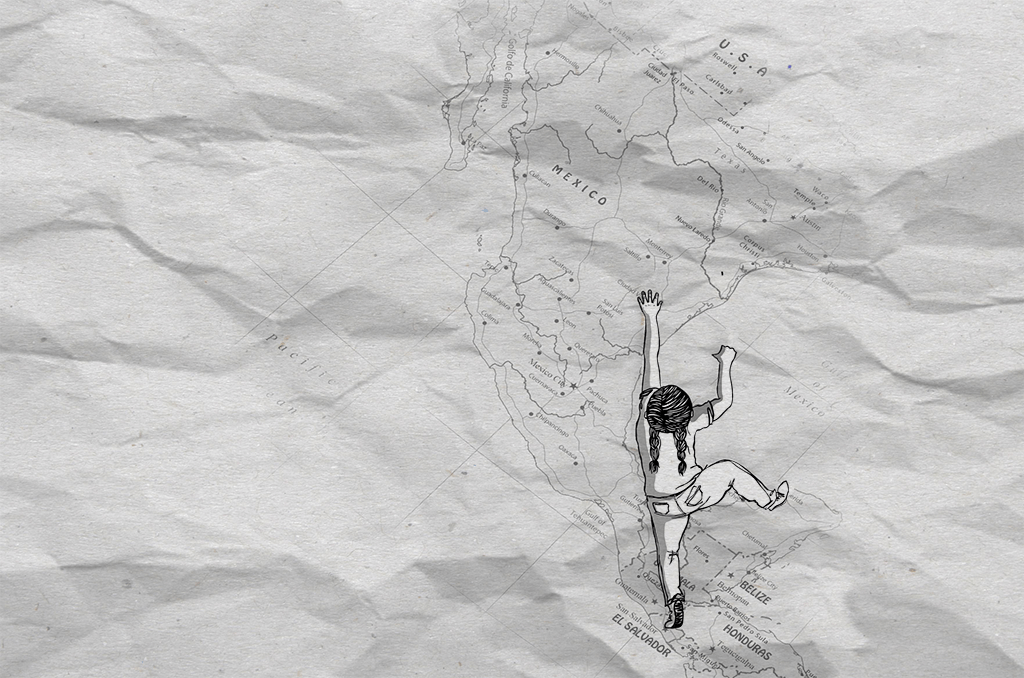
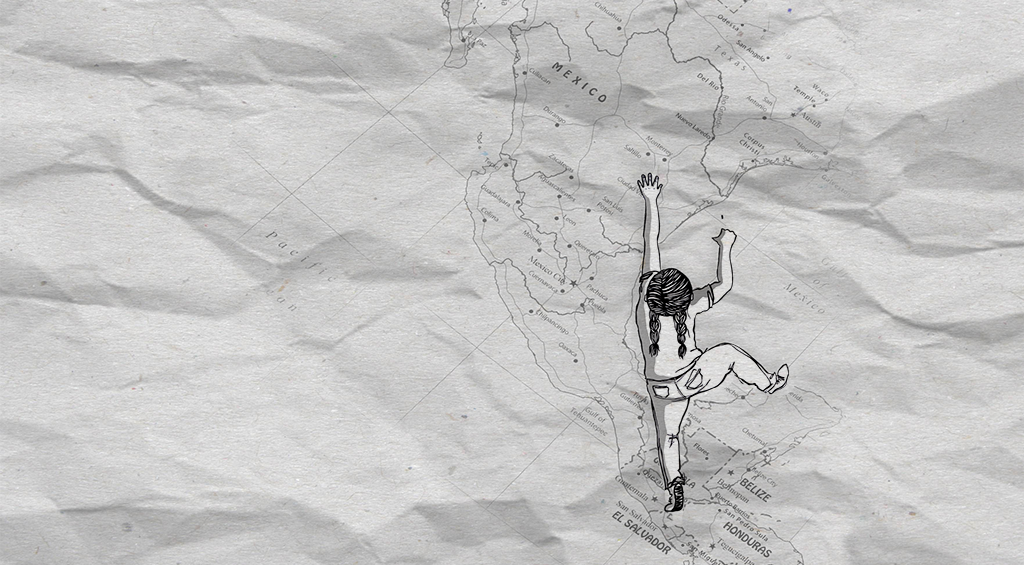
menu capitulos home / menu barra cpaitulo 1 / thumb cpitulos

diff --git a/index.html b/index.html
@@ -69,8 +69,21 @@
                     <div class="logo">
                         <img src="images/buscando-el-norte-logo-intro.png" width="781" height="260">
                     </div> 
-                    <a class="blackBtn" href="#capitulo01">COMENZAR</a>     
+                    <a class="blackBtn" href="#capitulo01">COMENZAR</a>    
                 </div>
+
+                <div class="intro-chapter-menu">
+                    <h3>Navega por los diferentes capítulos:</h3>
+                    <ul>
+                        <li><a href=""><img src="images/thumb-portada-c1.jpg"></a></li>
+                        <li><a href=""><img src="images/thumb-portada-c2.jpg"></a></li>
+                        <li><a href=""><img src="images/thumb-portada-c3.jpg"></a></li>
+                        <li><a href=""><img src="images/thumb-portada-c4.jpg"></a></li>
+                        <li><a href=""><img src="images/thumb-portada-c5.jpg"></a></li>
+                        <li><a href=""><img src="images/thumb-portada-c6.jpg"></a></li>
+                    </ul>
+                </div> 
+
                 <div class="background-section">
                     <img class="med-bg" src="images/buscando-el-norte-1024-intro.png">
                     <img class="large-bg" src="images/buscando-el-norte-1920-intro.png">
@@ -78,58 +91,69 @@
             </section> 
 
             <section id="capitulo01" class="section-site cpt01"><!-- CAPITULO 01 -->
-                <a class="nav-before" href="#introduccion"><svg><use xlink:href="#nav"/></svg></a>
-                <a class="nav-next" href="#capitulo02"><svg><use xlink:href="#nav"/></svg></a>
-                <div class="subs-section">  
-                     <audio id="audio-capitulo01" class="audios">                
-                        <source src="audio/CAP1.mp3" type="audio/mp3">                    
-                        <em class="error"><strong>Error:</strong> Your browser doesn't appear to support HTML5 Audio.</em>
-                    </audio>
-                    <a href="javascript:void(0)" class="playAudio" id="playAudio-capitulo01" style="display: none"><svg><use xlink:href="#audioplay"/></svg></a>
-                    <a href="javascript:void(0)" class="pauseAudio" id="pauseAudio-capitulo01"><svg><use xlink:href="#audiostop"/></svg></a>
-                    <p class="passage-audio-unavailable" hidden>
-                        <em class="error"><strong>Error:</strong> You will not be able to do the read-along audio because your browser is not able to play MP3, Ogg, or WAV audio formats.</em>
-                    </p>
-                    <div class="txt_capitulos" id="txt_capitulo01"></div>                    
+                <div class="side-nav-section"><!-- navegacion lateral por seccion -->
+                    <ul>
+                        <li><a href=""><img src="images/thumb-portada-c1.jpg"></a></li>
+                        <li><a href=""><img src="images/thumb-portada-c1.jpg"></a></li>
+                        <li><a href=""><img src="images/thumb-portada-c1.jpg"></a></li>
+                        <li><a href=""><img src="images/thumb-portada-c1.jpg"></a></li>
+                        <li><a href=""><img src="images/thumb-portada-c1.jpg"></a></li>
+                    </ul>
                 </div>
-                <div class="background-section">
-                    <div class="med-bg">
-                        <img src="images/buscando-el-norte-1024-capitulo01.png" alt="Buscando el norte - capítulo 1" usemap="#MapCapitulo01" id="buscandoelnorte-capitulo01-1024" />
-                        <map name="MapCapitulo01">
-                          <area shape="poly" class="abrir-detalle-modal" id="capitulo01-escena-1" coords="237,246,238,277,246,295,258,323,274,336,285,324,283,296,283,274,287,248,277,242" data-tooltip-content="#tooltip_capitulo01-escena-1" href="javascript:void(0)">
-                          <area shape="poly" class="abrir-detalle-modal" id="capitulo01-escena-2" coords="571,514,588,567,609,572,653,537,634,492,571,514" data-tooltip-content="#tooltip_capitulo01-escena-2" href="javascript:void(0)">
-                          <area shape="poly" class="abrir-detalle-modal" id="capitulo01-escena-3"coords="529,314,566,316,596,303,590,194,556,191,531,192,525,261,528,316" data-tooltip-content="#tooltip_capitulo01-escena-3" href="javascript:void(0)">
-                          <area shape="poly" class="abrir-detalle-modal" id="capitulo01-escena-4" coords="565,459,623,424,628,415,645,417,668,413,690,401,677,382,655,389,663,369,657,314,667,285,685,263,685,247,661,246,657,262,645,276,617,291,600,316,589,346,573,373,555,392,554,419,567,459" data-tooltip-content="#tooltip_capitulo01-escena-4" href="javascript:void(0)">
-                          <area shape="poly" class="abrir-detalle-modal" id="capitulo01-escena-3-5" coords="896,115,886,177,948,201,955,130,897,116" data-tooltip-content="#tooltip_capitulo01-escena-5" href="javascript:void(0)">
-                        </map>
-                        
-                        <div class="tooltip-html-titlecontent"><?php //tooltips ?>
-                            <span id="tooltip_capitulo01-escena-1">
-                                <svg><use xlink:href="#view-more"/></svg>
-                                <p>ver más</p>    
-                            </span>                           
-                            <span id="tooltip_capitulo01-escena-2">
-                                <svg><use xlink:href="#view-more"/></svg>
-                                <p>ver más</p> 
-                            </span>                  
-                            <span id="tooltip_capitulo01-escena-3">
-                                <svg><use xlink:href="#view-more"/></svg>
-                                <p>ver más</p> 
-                            </span>
-                            <span id="tooltip_capitulo01-escena-4">
-                                <svg><use xlink:href="#view-more"/></svg>
-                                <p>ver más</p> 
-                            </span>
-                            <span id="tooltip_capitulo01-escena-5">
-                                <svg><use xlink:href="#view-more"/></svg>
-                                <p>ver más</p> 
-                            </span>                               
-                        </div> 
-                         
+                <div class="section-content-wrap"> <!-- contenedor de elementos del section -->
+                    <a class="nav-before" href="#introduccion"><svg><use xlink:href="#nav"/></svg></a>
+                    <a class="nav-next" href="#capitulo02"><svg><use xlink:href="#nav"/></svg></a>
+                    <div class="subs-section">  
+                         <audio id="audio-capitulo01" class="audios">                
+                            <source src="audio/CAP1.mp3" type="audio/mp3">                    
+                            <em class="error"><strong>Error:</strong> Your browser doesn't appear to support HTML5 Audio.</em>
+                        </audio>
+                        <a href="javascript:void(0)" class="playAudio" id="playAudio-capitulo01" style="display: none"><svg><use xlink:href="#audioplay"/></svg></a>
+                        <a href="javascript:void(0)" class="pauseAudio" id="pauseAudio-capitulo01"><svg><use xlink:href="#audiostop"/></svg></a>
+                        <p class="passage-audio-unavailable" hidden>
+                            <em class="error"><strong>Error:</strong> You will not be able to do the read-along audio because your browser is not able to play MP3, Ogg, or WAV audio formats.</em>
+                        </p>
+                        <div class="txt_capitulos" id="txt_capitulo01"></div>                    
                     </div>
+                    <div class="background-section">
+                        <div class="med-bg">
+                            <img src="images/buscando-el-norte-1024-capitulo01.png" alt="Buscando el norte - capítulo 1" usemap="#MapCapitulo01" id="buscandoelnorte-capitulo01-1024" />
+                            <!--
+                            <map name="MapCapitulo01">
+                              <area shape="poly" class="abrir-detalle-modal" id="capitulo01-escena-1" coords="237,246,238,277,246,295,258,323,274,336,285,324,283,296,283,274,287,248,277,242" data-tooltip-content="#tooltip_capitulo01-escena-1" href="javascript:void(0)">
+                              <area shape="poly" class="abrir-detalle-modal" id="capitulo01-escena-2" coords="571,514,588,567,609,572,653,537,634,492,571,514" data-tooltip-content="#tooltip_capitulo01-escena-2" href="javascript:void(0)">
+                              <area shape="poly" class="abrir-detalle-modal" id="capitulo01-escena-3"coords="529,314,566,316,596,303,590,194,556,191,531,192,525,261,528,316" data-tooltip-content="#tooltip_capitulo01-escena-3" href="javascript:void(0)">
+                              <area shape="poly" class="abrir-detalle-modal" id="capitulo01-escena-4" coords="565,459,623,424,628,415,645,417,668,413,690,401,677,382,655,389,663,369,657,314,667,285,685,263,685,247,661,246,657,262,645,276,617,291,600,316,589,346,573,373,555,392,554,419,567,459" data-tooltip-content="#tooltip_capitulo01-escena-4" href="javascript:void(0)">
+                              <area shape="poly" class="abrir-detalle-modal" id="capitulo01-escena-3-5" coords="896,115,886,177,948,201,955,130,897,116" data-tooltip-content="#tooltip_capitulo01-escena-5" href="javascript:void(0)">
+                            </map>
+                            
+                            <div class="tooltip-html-titlecontent"><?php //tooltips ?>
+                                <span id="tooltip_capitulo01-escena-1">
+                                    <svg><use xlink:href="#view-more"/></svg>
+                                    <p>ver más</p>    
+                                </span>                           
+                                <span id="tooltip_capitulo01-escena-2">
+                                    <svg><use xlink:href="#view-more"/></svg>
+                                    <p>ver más</p> 
+                                </span>                  
+                                <span id="tooltip_capitulo01-escena-3">
+                                    <svg><use xlink:href="#view-more"/></svg>
+                                    <p>ver más</p> 
+                                </span>
+                                <span id="tooltip_capitulo01-escena-4">
+                                    <svg><use xlink:href="#view-more"/></svg>
+                                    <p>ver más</p> 
+                                </span>
+                                <span id="tooltip_capitulo01-escena-5">
+                                    <svg><use xlink:href="#view-more"/></svg>
+                                    <p>ver más</p> 
+                                </span>                               
+                            </div> 
+                             -->
+                        </div>
+                    </div>
+    				<div id="modal-description-escenas-capitulo01" class="modal-descriptions" style="display: none"  w3-include-html="modal_details_cap01.html"></div>
                 </div>
-				<div id="modal-description-escenas-capitulo01" class="modal-descriptions" style="display: none"  w3-include-html="modal_details_cap01.html">					         
-	    		</div>
             </section>
 			
             <section id="capitulo02" class="section-site cpt02"><!-- CAPITULO 02 -->

diff --git a/assets/css/style.css b/assets/css/style.css
@@ -209,7 +209,41 @@ header .submenu ul li a:hover{
 		from{ left:0;}
 		to{right:2em;}
 	}
+.intro-chapter-menu{
+    position: absolute;
+    z-index: 5;
+    bottom: 1em;
+    width: 50%;
+    left: 25%;
+    text-align: center;
+}
+.intro-chapter-menu ul{
+	    display: inline-block;
+    padding: 1em 0px;
+}
+.intro-chapter-menu ul li{
+	    width: 16.5%;
+    float: left;
+}
+.intro-chapter-menu ul li a{}
+.intro-chapter-menu ul li a img{
+	border: 5px solid black;
+    border-radius: 50%;
+    width: 80%;
+    transition: all 0.4s ease;
+	-webkit-transition: all 0.4s ease;
+	-moz-transition: all 0.4s ease;
+	-ms-transition: all 0.4s ease;
+	opacity: 0.5;
+	-webkit-box-shadow: inset 0px 0px 42px 0px rgba(0,0,0,0.75);
+	-moz-box-shadow: inset 0px 0px 42px 0px rgba(0,0,0,0.75);
+	box-shadow: inset 0px 0px 42px 0px rgba(0,0,0,0.75);
+}
+.intro-chapter-menu ul li a img:hover{
+	opacity: 1;
+	border: 5px solid #b46127;
 
+}
 #content-section .cpt00 .background-section{
     height: 100%;
     width: 100%;
@@ -275,7 +309,35 @@ section img{
     font-size: 20px;
     padding: 0 4%;
 }
+.side-nav-section{
+	width: 8%;
+	float: left;
+}
+.side-nav-section ul{
+	   margin: 0;
+    padding: 3.25em 0 0 0;	
+}
+.side-nav-section ul li a{
+	display: block;
+    width: 100%;
+    opacity: 0.5;
+}
+.side-nav-section ul li a:hover{
+	opacity: 1;
+	background-color: #b46127;
+}
 
+.side-nav-section ul li a img{
+	border-radius: 60%;
+    width: 100%;
+    margin: 0 auto;
+    padding: 10% 25%;	
+}
+.section-content-wrap{
+	width: 92%;
+	float: right;
+	position: relative;
+}
 /*modales escenas*/
 .modal-descriptions{
 	position: absolute;
